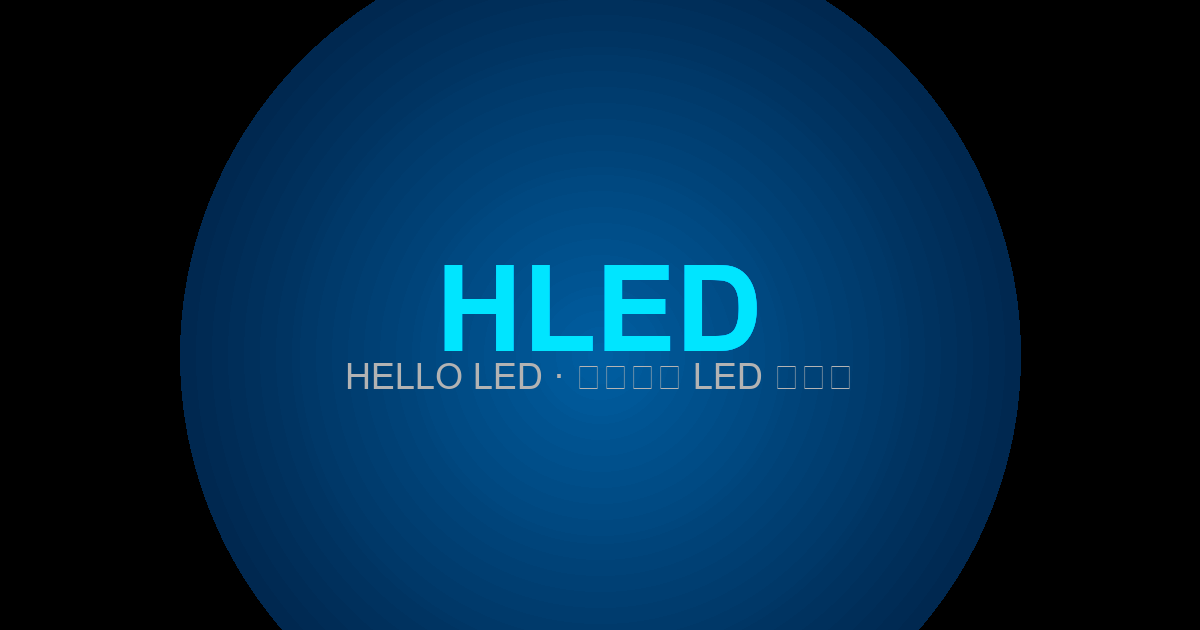
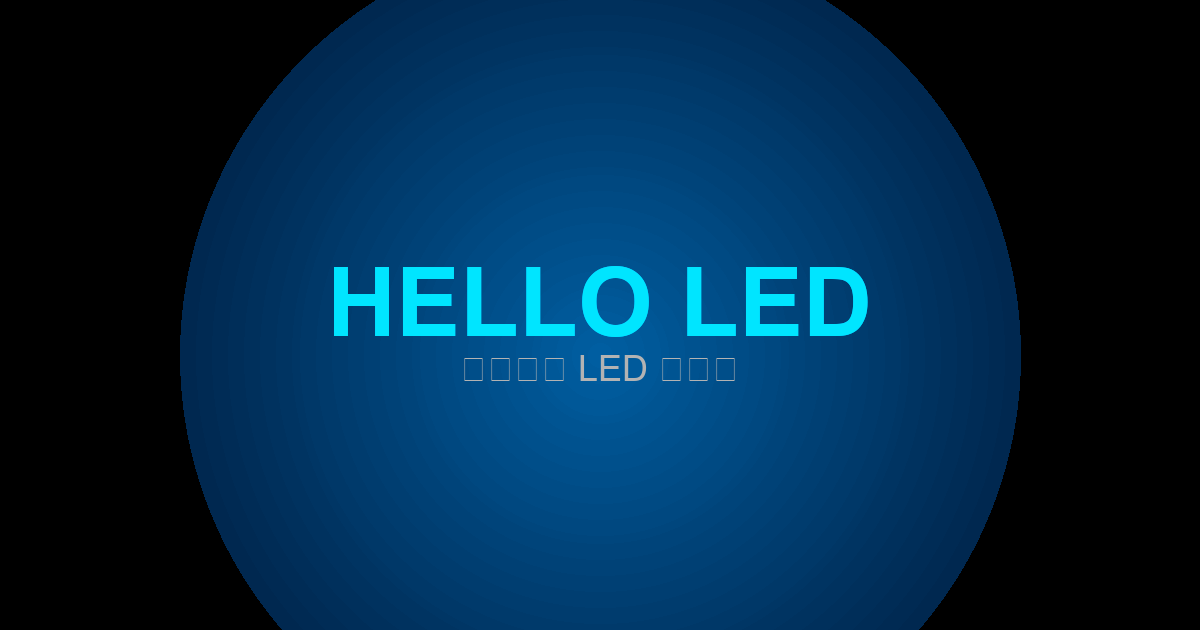
Remove HLED branding; use landscape phone mock.

Changed region(s): [[0.2775, 0.4222, 0.74, 0.6333]]

diff --git a/index.html b/index.html
@@ -192,7 +192,7 @@
 
   <header class="sticky top-0 z-50 bg-trueblack/90 backdrop-blur-md">
     <nav class="mx-auto flex max-w-6xl items-center justify-between gap-4 px-5 py-4" aria-label="주요">
-      <a href="/" class="logo-glow text-xl font-extrabold tracking-tight" aria-label="HLED 홈">HLED</a>
+      <a href="/" class="logo-glow text-xl font-extrabold tracking-tight" aria-label="HELLO LED 홈">HELLO LED</a>
       <ul class="flex items-center gap-1 overflow-x-auto text-sm text-muted sm:gap-2 sm:text-base">
         <li><a class="inline-flex min-h-11 items-center px-3 hover:text-white focus-visible:outline focus-visible:outline-2 focus-visible:outline-offset-2 focus-visible:outline-neon" href="#features">주요 기능</a></li>
         <li><a class="inline-flex min-h-11 items-center px-3 hover:text-white focus-visible:outline focus-visible:outline-2 focus-visible:outline-offset-2 focus-visible:outline-neon" href="#examples">활용 예시</a></li>
@@ -207,7 +207,7 @@
       <div class="pointer-events-none absolute inset-0 bg-[radial-gradient(ellipse_at_top,_rgba(0,229,255,0.12),_transparent_55%)]" aria-hidden="true"></div>
       <div class="relative mx-auto grid max-w-6xl items-center gap-14 lg:grid-cols-2 lg:gap-16">
         <div>
-          <p class="mb-4 text-sm font-semibold tracking-wide text-neon">HELLO LED · HLED</p>
+          <p class="mb-4 text-sm font-semibold tracking-wide text-neon">HELLO LED</p>
           <h1 class="text-[clamp(2.4rem,6vw,4.5rem)] font-extrabold leading-[1.08] tracking-[-0.04em]">
             전하고 싶은 마음,<br>
             <span class="neon-word">불빛</span>으로 <span class="neon-word">크게.</span>
@@ -235,17 +235,17 @@
           </div>
         </div>
 
-        <!-- Phone mock + try -->
-        <div class="reveal mx-auto w-full max-w-sm">
-          <div class="mx-auto w-[260px] rounded-[2.2rem] bg-neutral-900 p-3 shadow-[0_0_60px_rgba(0,229,255,0.15)] sm:w-[280px]" aria-hidden="true">
-            <div class="relative overflow-hidden rounded-[1.7rem] bg-black" style="aspect-ratio: 9 / 19.5;">
-              <div class="absolute left-1/2 top-2 z-10 h-5 w-24 -translate-x-1/2 rounded-full bg-neutral-950"></div>
+        <!-- Phone mock (landscape) + try -->
+        <div class="reveal mx-auto w-full max-w-xl">
+          <div class="mx-auto w-full max-w-[520px] rounded-[1.6rem] bg-neutral-900 p-2.5 shadow-[0_0_60px_rgba(0,229,255,0.15)] sm:rounded-[1.8rem] sm:p-3" aria-hidden="true">
+            <div class="relative overflow-hidden rounded-[1.2rem] bg-black sm:rounded-[1.4rem]" style="aspect-ratio: 19.5 / 9;">
+              <div class="absolute left-2 top-1/2 z-10 h-16 w-1.5 -translate-y-1/2 rounded-full bg-neutral-950 sm:h-20 sm:w-2"></div>
               <div class="absolute inset-0 flex items-center overflow-hidden bg-[#050505]">
-                <div class="marquee-track gap-16 px-4" id="marquee-track">
-                  <span class="led-text text-3xl" id="led-a">✨최애 피클맨 사랑해!✨</span>
-                  <span class="led-text text-3xl text-neonPink" id="led-b">WELCOME TO KOREA</span>
-                  <span class="led-text text-3xl" id="led-c">✨최애 피클맨 사랑해!✨</span>
-                  <span class="led-text text-3xl text-neonPink" id="led-d">WELCOME TO KOREA</span>
+                <div class="marquee-track gap-16 px-6" id="marquee-track">
+                  <span class="led-text text-2xl sm:text-3xl" id="led-a">✨최애 피클맨 사랑해!✨</span>
+                  <span class="led-text text-2xl text-neonPink sm:text-3xl" id="led-b">WELCOME TO KOREA</span>
+                  <span class="led-text text-2xl sm:text-3xl" id="led-c">✨최애 피클맨 사랑해!✨</span>
+                  <span class="led-text text-2xl text-neonPink sm:text-3xl" id="led-d">WELCOME TO KOREA</span>
                 </div>
               </div>
             </div>
@@ -272,7 +272,7 @@
       <div class="reveal mx-auto max-w-3xl">
         <h2 id="what-is" class="text-2xl font-bold tracking-tight sm:text-3xl">HELLO LED는 무엇인가요?</h2>
         <p class="mt-5 text-lg leading-relaxed text-muted">
-          HELLO LED(HLED)는 스마트폰 화면을 가로 전체화면 LED 전광판으로 바꾸는 앱입니다. 콘서트 응원, 매장 세일, 공항 환영 문구를 바로 띄울 수 있습니다. 입력한 문구와 설정은 기기에만 남고, <strong class="font-semibold text-white">전광판 표시 화면에는 광고가 없습니다.</strong> Android와 iOS에서 무료로 사용할 수 있습니다.
+          HELLO LED는 스마트폰 화면을 가로 전체화면 LED 전광판으로 바꾸는 앱입니다. 콘서트 응원, 매장 세일, 공항 환영 문구를 바로 띄울 수 있습니다. 입력한 문구와 설정은 기기에만 남고, <strong class="font-semibold text-white">전광판 표시 화면에는 광고가 없습니다.</strong> Android와 iOS에서 무료로 사용할 수 있습니다.
         </p>
       </div>
     </section>
@@ -408,7 +408,7 @@
     <section id="download" class="relative overflow-hidden px-5 py-28" aria-labelledby="cta-title">
       <div class="pointer-events-none absolute inset-0 bg-[radial-gradient(ellipse_at_center,_rgba(46,229,157,0.18),_transparent_50%),radial-gradient(ellipse_at_60%_40%,_rgba(0,229,255,0.22),_transparent_45%)]" aria-hidden="true"></div>
       <div class="relative mx-auto max-w-3xl text-center">
-        <h2 id="cta-title" class="reveal text-3xl font-extrabold tracking-tight sm:text-5xl">HLED로 당신의 메시지를<br class="hidden sm:block"> 지금 보여주세요</h2>
+        <h2 id="cta-title" class="reveal text-3xl font-extrabold tracking-tight sm:text-5xl">HELLO LED로 당신의 메시지를<br class="hidden sm:block"> 지금 보여주세요</h2>
         <p class="reveal mx-auto mt-5 max-w-xl text-muted">Google Play에서 바로 설치하고, App Store는 곧 공개됩니다. Android와 iOS, 가격 0원.</p>
         <div class="reveal mt-10 flex flex-wrap items-center justify-center gap-3">
           <a class="store-badge" href="https://play.google.com/store/apps/details?id=kr.helloled.app" rel="noopener noreferrer">
@@ -432,7 +432,7 @@
 
   <footer class="border-t-0 bg-trueblack px-5 pb-12 pt-4">
     <div class="mx-auto flex max-w-6xl flex-col gap-4 text-sm text-muted sm:flex-row sm:items-center sm:justify-between">
-      <p><span class="logo-glow font-bold">HLED</span> · HELLO LED</p>
+      <p><span class="logo-glow font-bold">HELLO LED</span></p>
       <div class="flex flex-wrap gap-4">
         <a class="hover:text-white focus-visible:outline focus-visible:outline-2 focus-visible:outline-offset-2 focus-visible:outline-neon" href="/privacy.html">개인정보처리방침</a>
         <a class="hover:text-white focus-visible:outline focus-visible:outline-2 focus-visible:outline-offset-2 focus-visible:outline-neon" href="mailto:helloled.app@gmail.com">helloled.app@gmail.com</a>
